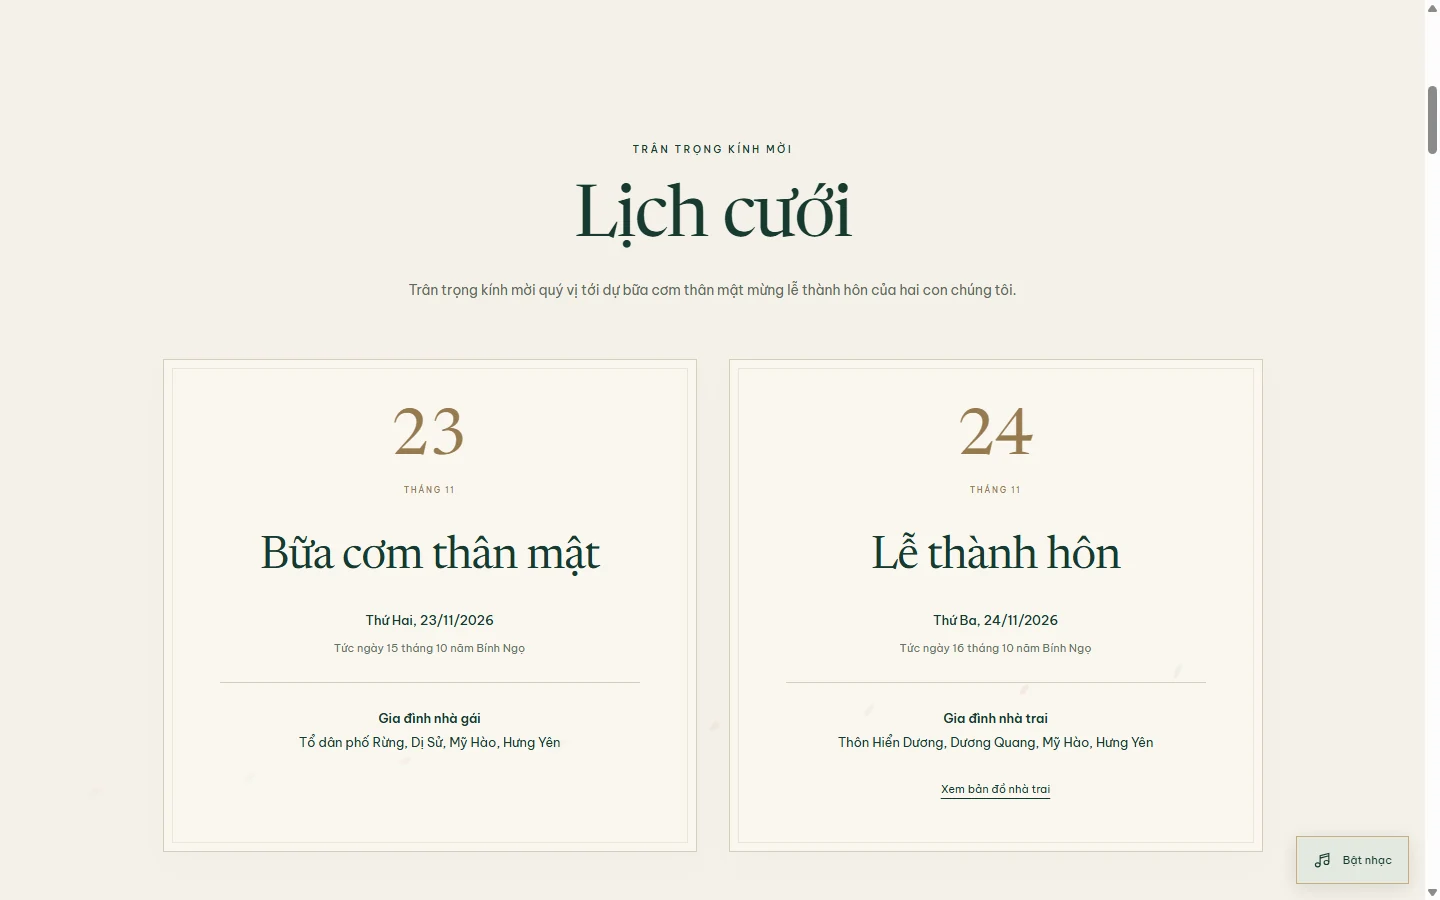
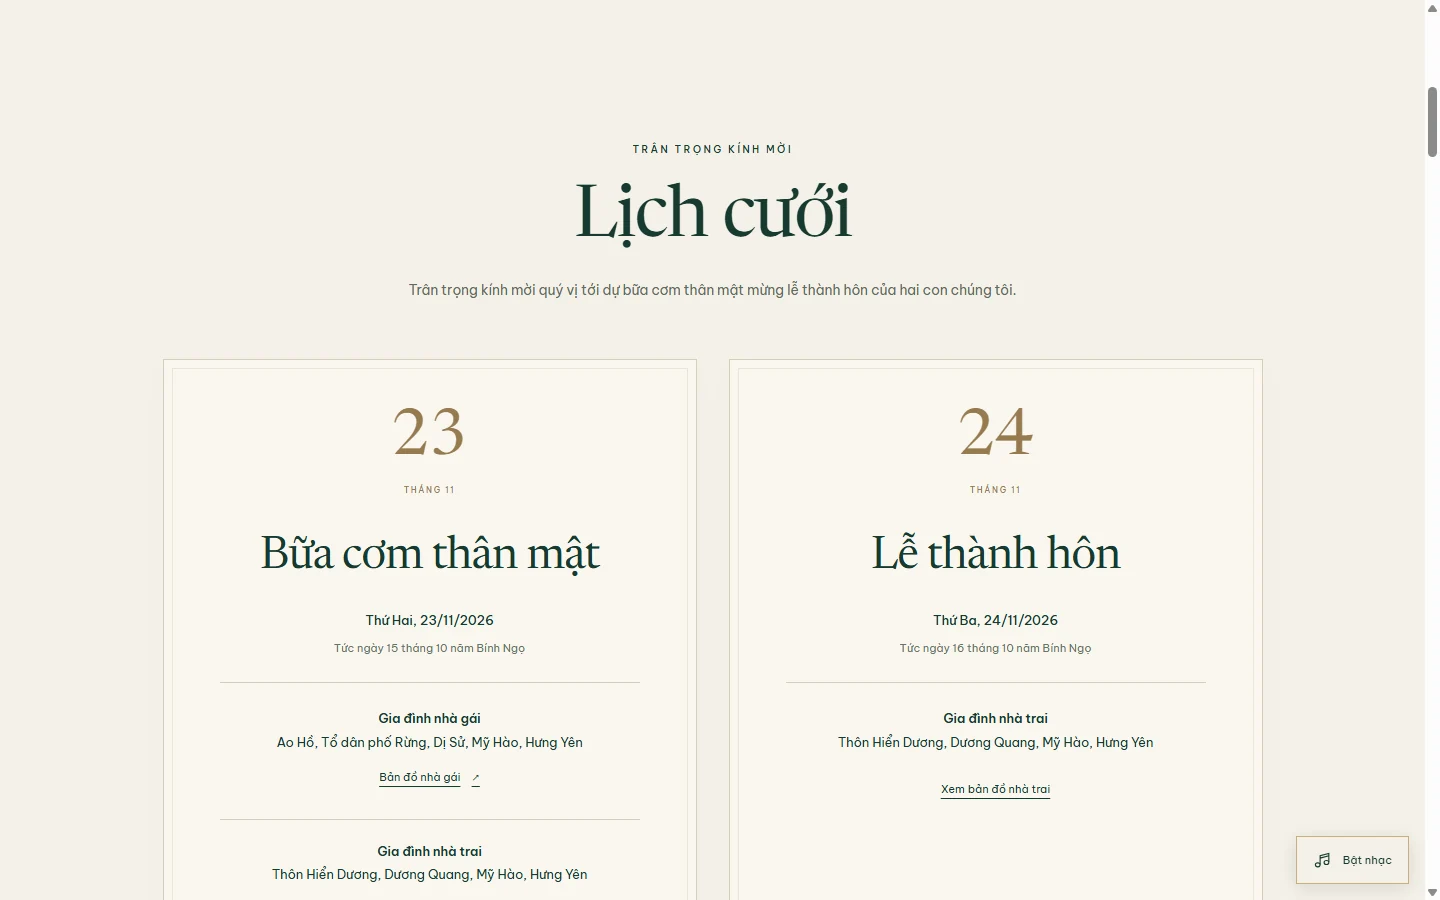
Add separate dinner venue links and update wedding invitation title

Changed region(s): [[0.1875, 0.9333, 0.4062, 0.9956], [0.1875, 0.8089, 0.4062, 0.8711]]

diff --git a/index.html b/index.html
@@ -3,7 +3,7 @@
   <head>
     <meta charset="UTF-8" />
     <meta name="viewport" content="width=device-width,initial-scale=1" />
-    <title>Thiệp cưới Quốc Hảo &amp; Thùy Trang | Vườn Sương</title>
+    <title>Quốc Hảo ❤ Thùy Trang - Thiệp mời cưới</title>
     <meta
       name="description"
       content="Thiệp cưới Quốc Hảo và Thùy Trang. Bữa cơm thân mật ngày 23/11 và lễ thành hôn ngày 24/11/2026 tại Hưng Yên."
@@ -13,7 +13,7 @@
       href="assets/invitation-shared.css?v=20261108-music"
     />
     <link rel="stylesheet" href="assets/storytelling.css?v=20261108-music" />
-    <link rel="stylesheet" href="assets/garden.css" />
+    <link rel="stylesheet" href="assets/garden.css?v=20261108-venues" />
     <link rel="icon" href="assets/favicon.svg" type="image/svg+xml" />
     <link rel="preconnect" href="https://fonts.googleapis.com" />
     <link rel="preconnect" href="https://fonts.gstatic.com" crossorigin />
@@ -21,13 +21,22 @@
     <meta name="theme-color" content="#173B31" />
     <meta
       property="og:title"
-      content="Quốc Hảo &amp; Thùy Trang · Vườn Sương"
+      content="Quốc Hảo ❤ Thùy Trang - Thiệp mời cưới"
     />
     <meta
       property="og:description"
       content="Trân trọng kính mời · 23–24.11.2026 · Hưng Yên"
     />
-    <meta property="og:image" content="assets/images/nm_00004.webp" />
+    <meta
+      property="og:image"
+      content="https://mumeilevina.github.io/thiepcuoi/assets/images/nm_00004.webp"
+    />
+    <meta property="og:site_name" content="Thiệp mời cưới" />
+    <meta name="twitter:card" content="summary_large_image" />
+    <meta
+      name="twitter:title"
+      content="Quốc Hảo ❤ Thùy Trang - Thiệp mời cưới"
+    />
     <noscript
       ><style>
         .invitation-gate {
@@ -157,10 +166,41 @@
                 >Tức ngày 15 tháng 10 năm Bính Ngọ</span
               >
             </p>
-            <p class="wedding-schedule__place">
-              <strong>Gia đình nhà gái</strong><br />Tổ dân phố Rừng, Dị Sử, Mỹ
-              Hào, Hưng Yên
-            </p>
+            <div
+              class="wedding-schedule__place wedding-schedule__locations"
+              aria-label="Hai địa điểm bữa cơm ngày 23 tháng 11"
+            >
+              <div
+                class="wedding-schedule__location"
+                data-reception-location="bride"
+              >
+                <p>
+                  <strong>Gia đình nhà gái</strong><br />Ao Hồ, Tổ dân phố Rừng,
+                  Dị Sử, Mỹ Hào, Hưng Yên
+                </p>
+                <a
+                  href="https://www.google.com/maps/search/?api=1&amp;query=Ao+Hồ,+Tổ+dân+phố+Rừng,+Dị+Sử,+Mỹ+Hào,+Hưng+Yên"
+                  target="_blank"
+                  rel="noopener noreferrer"
+                  >Bản đồ nhà gái <span aria-hidden="true">↗</span></a
+                >
+              </div>
+              <div
+                class="wedding-schedule__location"
+                data-reception-location="groom"
+              >
+                <p>
+                  <strong>Gia đình nhà trai</strong><br />Thôn Hiển Dương, Dương
+                  Quang, Mỹ Hào, Hưng Yên
+                </p>
+                <a
+                  href="https://www.google.com/maps/dir/?api=1&amp;destination=20.9388189%2C106.1072559"
+                  target="_blank"
+                  rel="noopener noreferrer"
+                  >Chỉ đường nhà trai <span aria-hidden="true">↗</span></a
+                >
+              </div>
+            </div>
           </article>
           <article class="wedding-schedule__event reveal">
             <span class="event-number" aria-hidden="true"

diff --git a/invitations/01-vuon-suong.html b/invitations/01-vuon-suong.html
@@ -1,13 +1,13 @@
 <!doctype html>
 <html lang="vi">
-<head>
-  <meta charset="utf-8">
-  <meta name="viewport" content="width=device-width, initial-scale=1">
-  <meta http-equiv="refresh" content="0; url=../index.html">
-  <link rel="canonical" href="../">
-  <title>Thiệp cưới Quốc Hảo &amp; Thùy Trang</title>
-</head>
-<body>
-  <p><a href="../index.html">Mở thiệp cưới Vườn Sương</a></p>
-</body>
+  <head>
+    <meta charset="utf-8" />
+    <meta name="viewport" content="width=device-width, initial-scale=1" />
+    <meta http-equiv="refresh" content="0; url=../index.html" />
+    <link rel="canonical" href="../" />
+    <title>Quốc Hảo ❤ Thùy Trang - Thiệp mời cưới</title>
+  </head>
+  <body>
+    <p><a href="../index.html">Mở thiệp mời cưới Quốc Hảo ❤ Thùy Trang</a></p>
+  </body>
 </html>

diff --git a/assets/garden.css b/assets/garden.css
@@ -655,6 +655,20 @@
   text-underline-offset: 5px;
   font-size: 0.7rem;
 }
+.wedding-schedule__locations {
+  display: grid;
+  gap: 1.25rem;
+}
+.wedding-schedule__location p {
+  margin: 0;
+}
+.wedding-schedule__location + .wedding-schedule__location {
+  border-top: 1px solid var(--line);
+  padding-top: 1.25rem;
+}
+.wedding-schedule__location a {
+  gap: 0.7rem;
+}
 .family-heading {
   text-align: center;
   margin: 4.5rem 0 2rem;

diff --git a/docs/verification.md b/docs/verification.md
@@ -2,6 +2,8 @@
 
 Kết quả chi tiết: [verification-results.json](verification-results.json). **18 nhóm kiểm tra đạt**. Trình duyệt kiểm thử: Chromium trên Windows, 08/11/2026.
 
+Bổ sung sau khi sửa lịch ngày 23/11 và tên thiệp: kiểm tra riêng đạt trên 320/375/390/768/1440px. Xác nhận có đúng hai link cho hai địa điểm, nhà gái tìm theo địa chỉ Ao Hồ, nhà trai dùng cùng tọa độ bản đồ ngày 24/11; địa chỉ Hiển Dương được giữ nguyên. Tiêu đề tab, Open Graph và Twitter cùng là “Quốc Hảo ❤ Thùy Trang - Thiệp mời cưới”. Các link đủ vùng chạm 44px và không gây tràn ngang.
+
 Kiểm thử các viewport 320, 375, 390, 768, 1440px, landscape 844×390 và màn hình thấp 375×568. Kiểm tra mở bằng bàn phím/chạm/chuột, không mở lặp, focus, tên tiếng Việt, dữ liệu cưới, ảnh thật, lightbox và không tràn ngang.
 
 Nhạc không tải/phát trước thao tác mở; sau thao tác mở, file MP3 được giải mã và phát thật trong trình duyệt kiểm thử. Kiểm tra nút dừng/bật lại và nhánh trình duyệt chặn phát. Nhạc lỗi không ngăn mở thiệp. Các nhánh scroll/history vẫn gồm URL có fragment, reload từ cuối, Back và ảnh tải chậm.

diff --git a/README.md b/README.md
@@ -4,7 +4,8 @@ Thiệp cưới Quốc Hảo & Thùy Trang, HTML/CSS/JavaScript thuần, không 
 
 ## Nội dung hiện tại
 
-- Bữa cơm thân mật: 23/11/2026, **Gia đình nhà gái — Tổ dân phố Rừng, Dị Sử, Mỹ Hào, Hưng Yên**.
+- Bữa cơm thân mật ngày 23/11/2026 có hai địa điểm và hai link bản đồ riêng: **nhà gái — Ao Hồ, Tổ dân phố Rừng, Dị Sử, Mỹ Hào, Hưng Yên**; **nhà trai — Thôn Hiển Dương, Dương Quang, Mỹ Hào, Hưng Yên** (cùng địa chỉ lễ thành hôn ngày 24/11). Link nhà gái tìm theo địa chỉ vì chưa có tọa độ riêng được xác nhận; nhà trai dùng đúng tọa độ của bản đồ ngày 24/11.
+- Tên trên tab và khi chia sẻ: **Quốc Hảo ❤ Thùy Trang - Thiệp mời cưới**.
 - Lễ thành hôn: 24/11/2026, gia đình nhà trai, Thôn Hiển Dương, Dương Quang, Mỹ Hào, Hưng Yên.
 - Giữ nguyên thông tin âm lịch và tên hai bên gia đình. Theo yêu cầu, không hiển thị các dòng giờ đón khách/giờ làm lễ sẽ cập nhật; không tự thêm giờ.
 - Bản đồ và nút chỉ đường nhà chú rể cùng dùng `20.9388189,106.1072559`. Mục này nằm ngay trước cảnh cảm ơn “Một lời hẹn giữa vườn xanh”.
